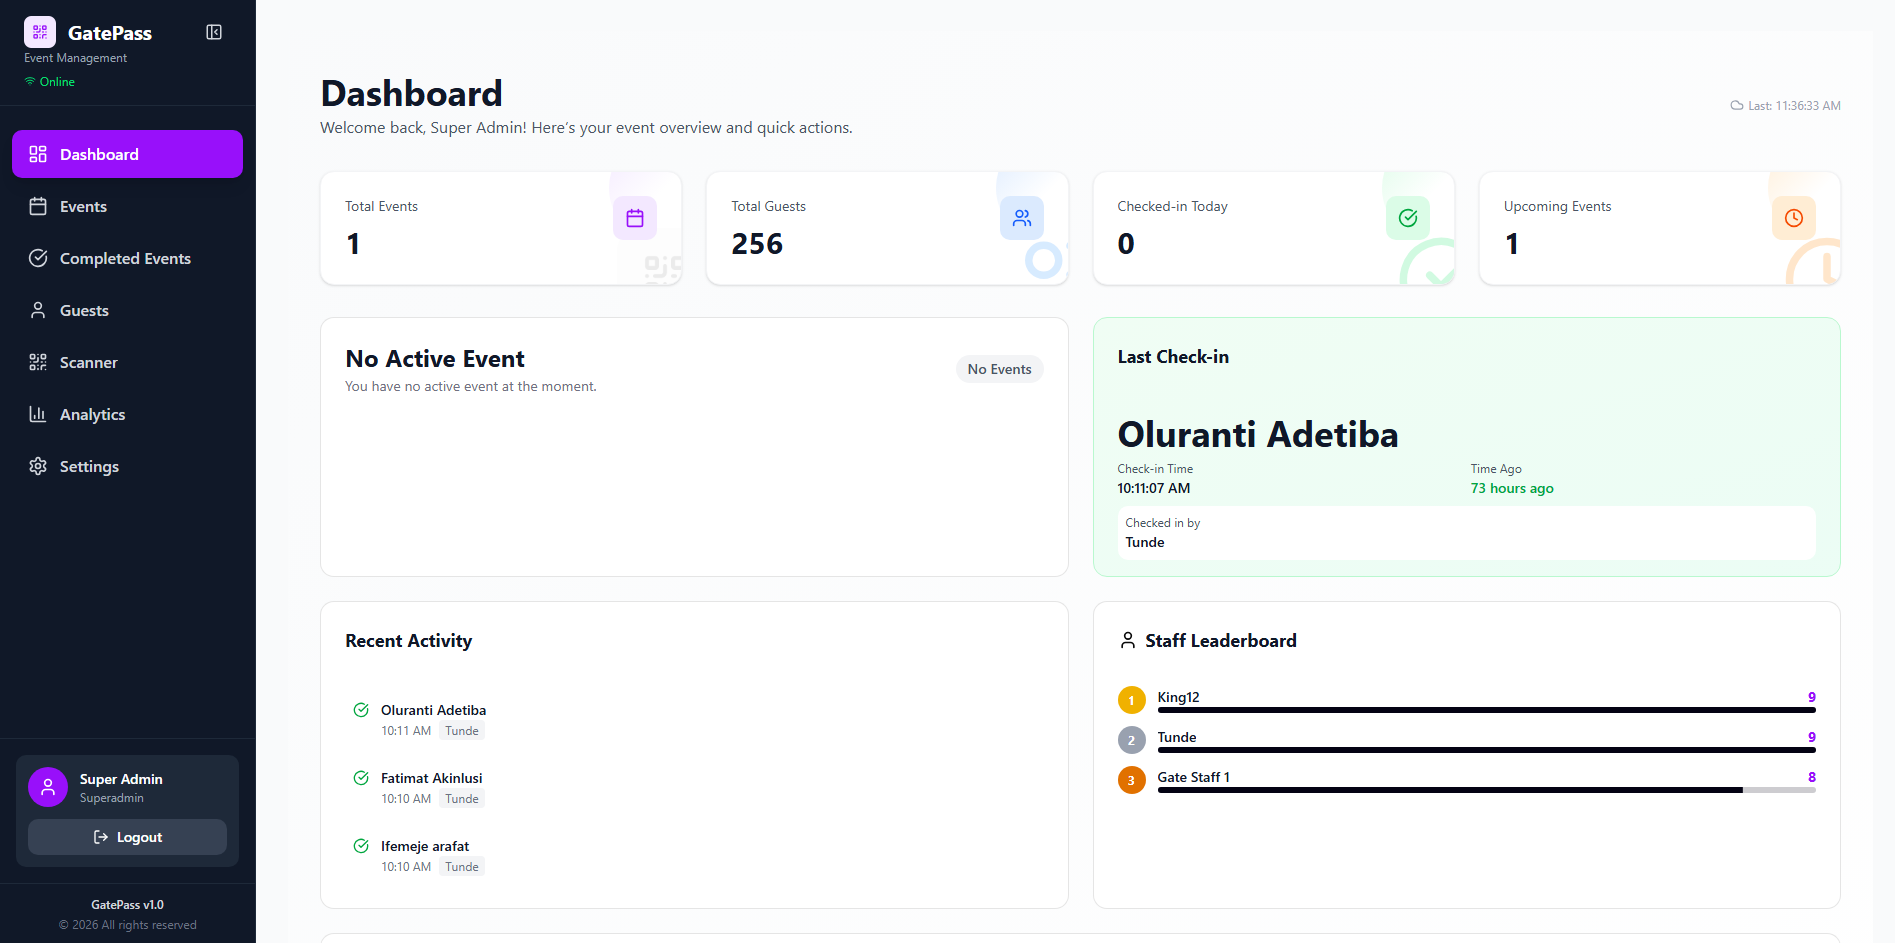
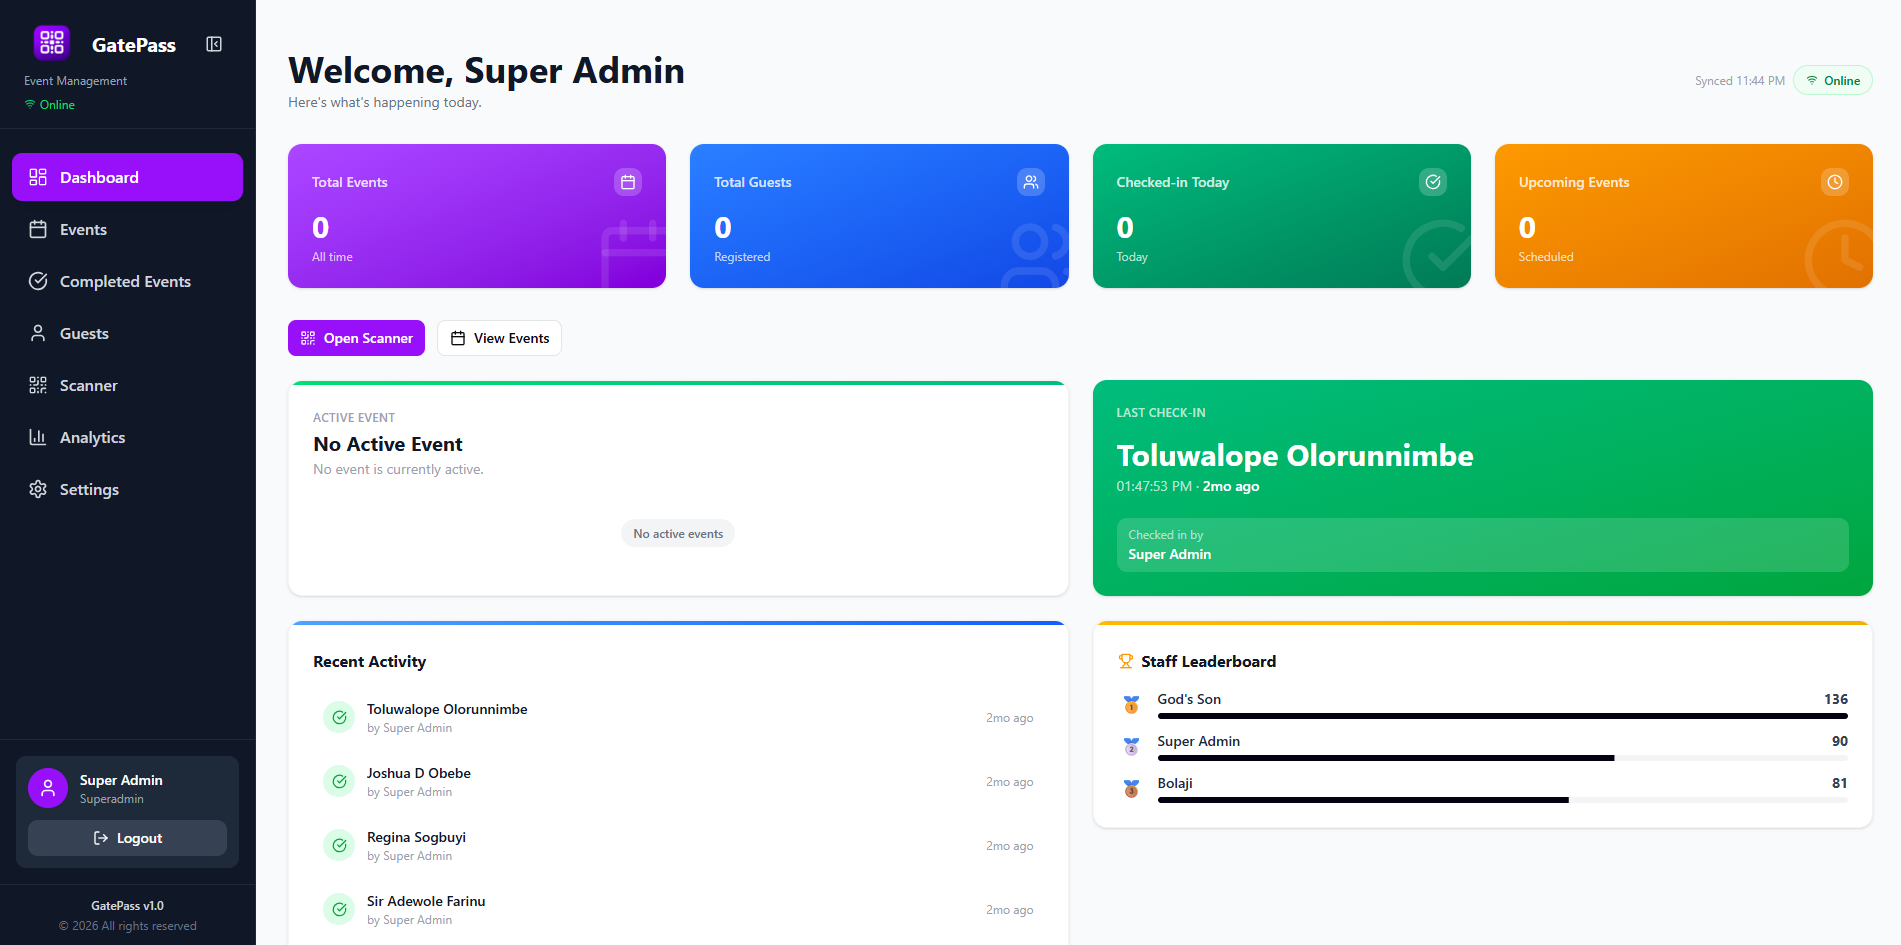
feat: update project images and enhance case study layout with screenshots and video

diff --git a/src/pages/CaseStudyPropertyIntelligence.tsx b/src/pages/CaseStudyPropertyIntelligence.tsx
@@ -431,12 +431,30 @@ const CaseStudyPropertyIntelligence = () => {
                 {dashboardScreenshots.map((item) => (
                   <div
                     key={item.label}
-                    className="h-48 rounded-xl border border-primary/20 bg-primary/5 flex flex-col items-center justify-center gap-2 px-4 text-center"
+                    className="rounded-xl border border-primary/20 bg-primary/5 overflow-hidden"
                   >
-                    <Camera className="w-8 h-8 text-primary/30" />
-                    <p className="text-sm font-semibold text-foreground/60">{item.label}</p>
-                    <p className="text-xs text-foreground/40 leading-snug">{item.description}</p>
-                    <span className="text-xs text-foreground/30 mt-1">Screenshot coming soon</span>
+                    {item.image ? (
+                      <>
+                        <div className="h-48 w-full overflow-hidden">
+                          <img
+                            src={item.image}
+                            alt={item.label}
+                            className="w-full h-full object-cover object-top"
+                          />
+                        </div>
+                        <div className="px-4 py-3">
+                          <p className="text-sm font-semibold text-foreground/80">{item.label}</p>
+                          <p className="text-xs text-foreground/50 leading-snug">{item.description}</p>
+                        </div>
+                      </>
+                    ) : (
+                      <div className="h-48 flex flex-col items-center justify-center gap-2 px-4 text-center">
+                        <Camera className="w-8 h-8 text-primary/30" />
+                        <p className="text-sm font-semibold text-foreground/60">{item.label}</p>
+                        <p className="text-xs text-foreground/40 leading-snug">{item.description}</p>
+                        <span className="text-xs text-foreground/30 mt-1">Screenshot coming soon</span>
+                      </div>
+                    )}
                   </div>
                 ))}
               </div>
@@ -452,16 +470,14 @@ const CaseStudyPropertyIntelligence = () => {
                 A full walkthrough of the system — from a natural language property query
                 through vector retrieval, AI response generation, and automated lead capture.
               </p>
-              <div className="w-full h-64 md:h-80 rounded-xl border border-primary/20 bg-primary/5 flex flex-col items-center justify-center gap-4">
-                <div className="w-16 h-16 rounded-full bg-primary/20 flex items-center justify-center">
-                  <Play className="w-7 h-7 text-primary ml-1" />
-                </div>
-                <div className="text-center">
-                  <p className="text-sm font-medium text-foreground/60">Demo video coming soon</p>
-                  <p className="text-xs text-foreground/40 mt-1">
-                    Full RAG pipeline walkthrough — query → retrieval → response → lead log
-                  </p>
-                </div>
+              <div className="w-full rounded-xl border border-primary/20 bg-primary/5 overflow-hidden">
+                <video
+                  src="https://res.cloudinary.com/ds2h3iwys/video/upload/v1787879853/moruf-prompt-engineer-portfolio/0828_xuggqo.mp4"
+                  controls
+                  muted={false}
+                  playsInline
+                  className="w-full h-auto max-h-[32rem]"
+                />
               </div>
             </div>
 

diff --git a/src/data/propertyIntelligenceData.ts b/src/data/propertyIntelligenceData.ts
@@ -252,18 +252,26 @@ export const dashboardScreenshots = [
   {
     label: "Natural Language Property Search",
     description: "Chat interface showing a live property query and AI-matched results",
+    image:
+      "https://res.cloudinary.com/ds2h3iwys/image/upload/v1787873910/moruf-prompt-engineer-portfolio/Ragchat1_ngnekb.png",
   },
   {
     label: "n8n Orchestration Workflow",
     description: "Full n8n workflow showing intent routing, RAG pipeline, and lead logging nodes",
+    image:
+      "https://res.cloudinary.com/ds2h3iwys/image/upload/v1787874736/moruf-prompt-engineer-portfolio/Ragchat2_yb047n.png",
   },
   {
     label: "Pinecone Vector Dashboard",
     description: "Vector index showing embedded property documents and similarity scores",
+    image:
+      "https://res.cloudinary.com/ds2h3iwys/image/upload/v1787875088/moruf-prompt-engineer-portfolio/Ragchat21_htplac.png",
   },
   {
     label: "Lead Capture & Google Sheets Log",
     description: "Automated lead entries captured from chat and synced to the agent dashboard",
+    image:
+      "https://res.cloudinary.com/ds2h3iwys/image/upload/v1787875254/moruf-prompt-engineer-portfolio/Ragchat212_wopswq.png",
   },
 ];
 
